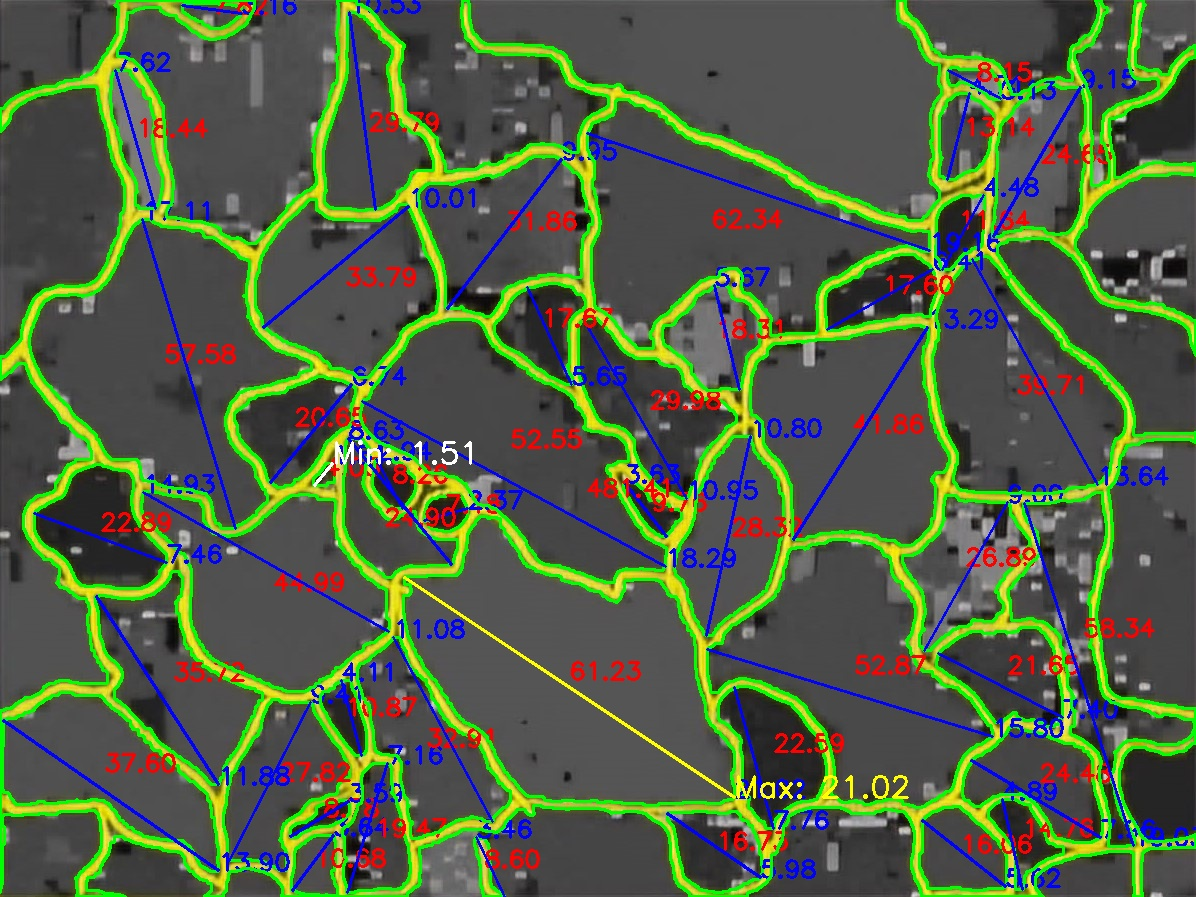
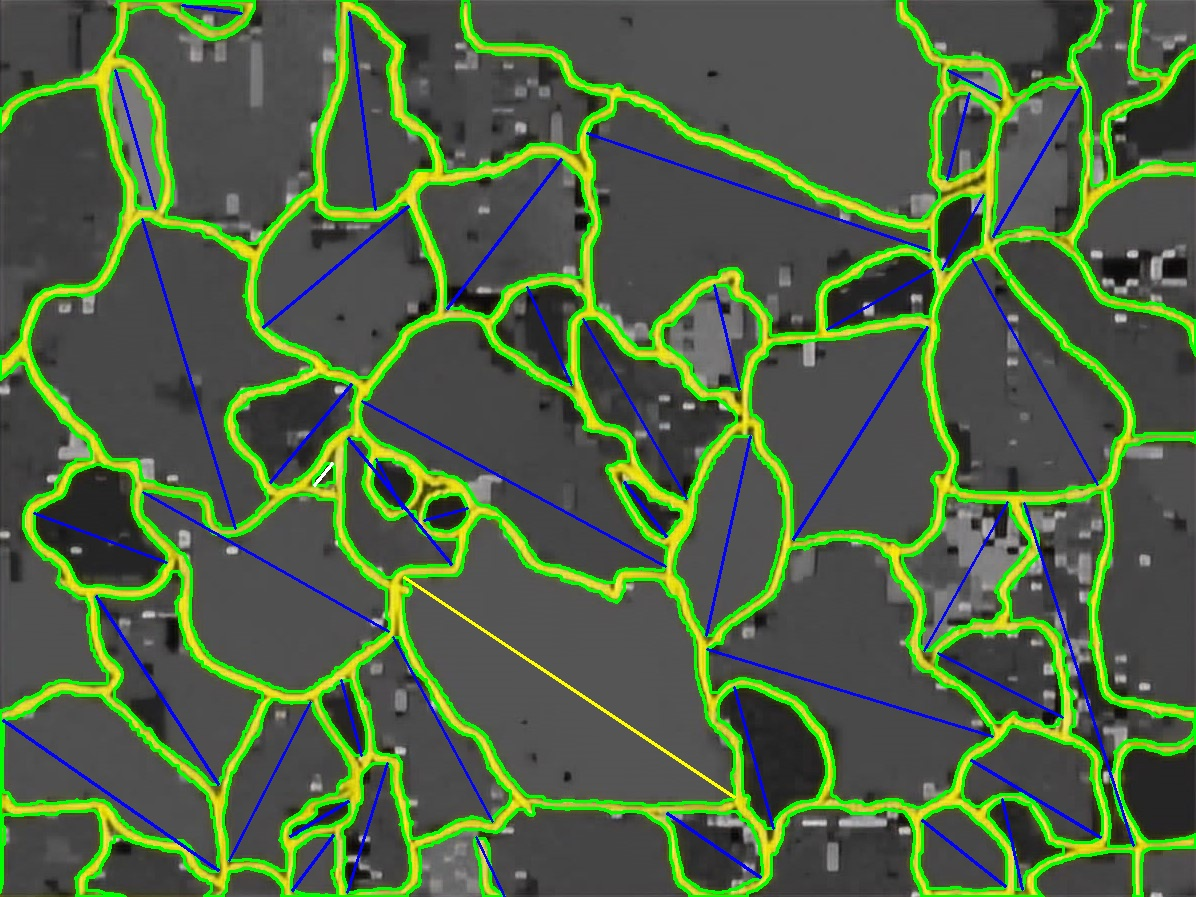
I added new things

diff --git a/image detection/grain_size/grain_size.py b/image detection/grain_size/grain_size.py
@@ -1,3 +1,112 @@
+# import cv2
+# import numpy as np
+# import csv
+
+# def find_longest_line(contour):
+#     max_length = 0
+#     max_line = None
+#     for i in range(len(contour)):
+#         for j in range(i+1, len(contour)):
+#             length = np.linalg.norm(contour[i] - contour[j])
+#             if length > max_length:
+#                 max_length = length
+#                 max_line = (contour[i], contour[j])
+#     return max_line, max_length
+
+# def pixels_to_microns(pixels, image_width_mm, image_height_mm, img_width_px, img_height_px):
+#     width_ratio = image_width_mm / img_width_px
+#     height_ratio = image_height_mm / img_height_px
+#     return pixels * max(width_ratio, height_ratio)
+
+# def find_grain_sizes(image_path, line_color_lower, line_color_upper, grain_size_limit, longest_line_limit, image_width_mm, image_height_mm):
+
+#     img = cv2.imread(image_path)
+
+#     hsv = cv2.cvtColor(img, cv2.COLOR_BGR2HSV)
+
+#     mask = cv2.inRange(hsv, line_color_lower, line_color_upper)
+
+#     kernel = np.ones((7, 7), np.uint8)  
+#     mask = cv2.morphologyEx(mask, cv2.MORPH_CLOSE, kernel)
+
+#     contours, _ = cv2.findContours(mask, cv2.RETR_LIST, cv2.CHAIN_APPROX_SIMPLE)
+
+#     grain_sizes = []
+#     line_lengths = []  
+#     grain_data = []  
+
+#     for idx, contour in enumerate(contours):
+#         grain_size_pixels = cv2.arcLength(contour, True)
+#         grain_size_microns = pixels_to_microns(grain_size_pixels, image_width_mm, image_height_mm, img.shape[1], img.shape[0])
+
+#         if grain_size_microns > grain_size_limit:
+#             continue
+
+#         cv2.drawContours(img, [contour], -1, (0, 255, 0), 2)
+
+#         M = cv2.moments(contour)
+#         if M["m00"] != 0:
+#             cX = int(M["m10"] / M["m00"])
+#             cY = int(M["m01"] / M["m00"])
+#             cv2.putText(img, f"{grain_size_microns:.2f}", (cX, cY), cv2.FONT_HERSHEY_SIMPLEX, 0.8, (0, 0, 255), 2)
+
+#         longest_line, line_length = find_longest_line(contour)
+#         if longest_line is not None and line_length <= longest_line_limit:
+#             line_length_microns = pixels_to_microns(line_length, image_width_mm, image_height_mm, img.shape[1], img.shape[0])
+#             line_lengths.append(line_length_microns)
+#             cv2.line(img, tuple(longest_line[0][0]), tuple(longest_line[1][0]), (255, 0, 0), 2)
+#             cv2.putText(img, f"{line_length_microns:.2f}", tuple(longest_line[0][0]), cv2.FONT_HERSHEY_SIMPLEX, 0.8, (255, 0, 0), 2)
+
+#         grain_sizes.append(grain_size_microns)
+#         grain_data.append([idx + 1, grain_size_microns, line_length_microns])
+#         print(f"Grain Size: {grain_size_microns:.2f} mikron")  # Print grain size
+#         print(f"Longest Line Length: {line_length_microns:.2f} mikron")  # Print longest line length
+
+ 
+#     if line_lengths:
+#         max_line_length = max(line_lengths)
+#         min_line_length = min(line_lengths)
+#         max_length_pos = line_lengths.index(max_line_length)
+#         min_length_pos = line_lengths.index(min_line_length)
+#         max_contour = contours[max_length_pos]
+#         min_contour = contours[min_length_pos]
+
+#         max_line, _ = find_longest_line(max_contour)
+#         if max_line is not None:
+#             cv2.line(img, tuple(max_line[0][0]), tuple(max_line[1][0]), (0, 255, 255), 2)
+#             cv2.putText(img, f"Max: {max_line_length:.2f}", tuple(max_line[0][0]), cv2.FONT_HERSHEY_SIMPLEX, 1, (0, 255, 255), 2)
+
+#         min_line, _ = find_longest_line(min_contour)
+#         if min_line is not None:
+#             cv2.line(img, tuple(min_line[0][0]), tuple(min_line[1][0]), (255, 255, 255), 2)  # Beyaz renkte çiz
+#             cv2.putText(img, f"Min: {min_line_length:.2f}", tuple(min_line[0][0]), cv2.FONT_HERSHEY_SIMPLEX, 1, (255, 255, 255), 2)  # Beyaz renkte yazı
+
+#         print(f"Maximum Length: {max_line_length:.2f}")
+#         print(f"Minimum Length: {min_line_length:.2f}")
+#     else:
+#         print("There is no length.")
+
+#     with open('grain_size/grain_sizes.csv', 'w', newline='') as file:
+#         writer = csv.writer(file)
+#         writer.writerow(["Grain Size Number", "Grain Size (microns)", "Longest Line Length (microns)"])
+#         writer.writerows(grain_data)
+
+#     return img
+
+# image_path = "first/104-gs.jpeg"  # Path to your EBSD image
+# line_color_lower = (20, 100, 100)  # Lower HSV threshold for yellow color
+# line_color_upper = (30, 255, 255)  # Upper HSV threshold for yellow color
+# grain_size_limit = 2000  # Grain size limit in microns
+# longest_line_limit = 600  # Longest line length limit in pixels
+# image_width_mm = 63.40  # Width of the image in millimeters
+# image_height_mm = 47.53  # Height of the image in millimeters
+
+# result_image = find_grain_sizes(image_path, line_color_lower, line_color_upper, grain_size_limit, longest_line_limit, image_width_mm, image_height_mm)
+# cv2.imwrite("grain_size/result_with_grain_sizes.jpg", result_image)
+
+# print("Result image saved as result_with_grain_sizes.jpg")
+# print("Grain size data saved as grain_sizes.csv")
+
 import cv2
 import numpy as np
 import csv
@@ -48,18 +157,17 @@ def find_grain_sizes(image_path, line_color_lower, line_color_upper, grain_size_
         if M["m00"] != 0:
             cX = int(M["m10"] / M["m00"])
             cY = int(M["m01"] / M["m00"])
-            cv2.putText(img, f"{grain_size_microns:.2f}", (cX, cY), cv2.FONT_HERSHEY_SIMPLEX, 0.8, (0, 0, 255), 2)
 
         longest_line, line_length = find_longest_line(contour)
         if longest_line is not None and line_length <= longest_line_limit:
             line_length_microns = pixels_to_microns(line_length, image_width_mm, image_height_mm, img.shape[1], img.shape[0])
             line_lengths.append(line_length_microns)
             cv2.line(img, tuple(longest_line[0][0]), tuple(longest_line[1][0]), (255, 0, 0), 2)
-            cv2.putText(img, f"{line_length_microns:.2f}", tuple(longest_line[0][0]), cv2.FONT_HERSHEY_SIMPLEX, 0.8, (255, 0, 0), 2)
+            cv2.putText(img, f"{line_length_microns:.2f}", tuple(longest_line[0][0]), cv2.FONT_HERSHEY_SIMPLEX, 1.05, (255, 0, 0), 3)
 
         grain_sizes.append(grain_size_microns)
         grain_data.append([idx + 1, grain_size_microns, line_length_microns])
-        print(f"Grain Size: {grain_size_microns:.2f} mikron")  # Print grain size
+        print(f"{grain_size_microns:.2f} mikron")  # Print grain size
         print(f"Longest Line Length: {line_length_microns:.2f} mikron")  # Print longest line length
 
  
@@ -74,12 +182,12 @@ def find_grain_sizes(image_path, line_color_lower, line_color_upper, grain_size_
         max_line, _ = find_longest_line(max_contour)
         if max_line is not None:
             cv2.line(img, tuple(max_line[0][0]), tuple(max_line[1][0]), (0, 255, 255), 2)
-            cv2.putText(img, f"Max: {max_line_length:.2f}", tuple(max_line[0][0]), cv2.FONT_HERSHEY_SIMPLEX, 1, (0, 255, 255), 2)
+            cv2.putText(img, f"Max: {max_line_length:.2f}", tuple(max_line[0][0]), cv2.FONT_HERSHEY_SIMPLEX, 1.05, (0, 255, 255), 3)
 
         min_line, _ = find_longest_line(min_contour)
         if min_line is not None:
             cv2.line(img, tuple(min_line[0][0]), tuple(min_line[1][0]), (255, 255, 255), 2)  # Beyaz renkte çiz
-            cv2.putText(img, f"Min: {min_line_length:.2f}", tuple(min_line[0][0]), cv2.FONT_HERSHEY_SIMPLEX, 1, (255, 255, 255), 2)  # Beyaz renkte yazı
+            cv2.putText(img, f"Min: {min_line_length:.2f}", tuple(min_line[0][0]), cv2.FONT_HERSHEY_SIMPLEX, 1.05, (255, 255, 255), 3)  # Beyaz renkte yazı
 
         print(f"Maximum Length: {max_line_length:.2f}")
         print(f"Minimum Length: {min_line_length:.2f}")
@@ -102,7 +210,7 @@ image_width_mm = 63.40  # Width of the image in millimeters
 image_height_mm = 47.53  # Height of the image in millimeters
 
 result_image = find_grain_sizes(image_path, line_color_lower, line_color_upper, grain_size_limit, longest_line_limit, image_width_mm, image_height_mm)
-cv2.imwrite("grain_size/result_with_grain_sizes.jpg", result_image)
+cv2.imwrite("grain_size/result_with_grain_sizes1.jpg", result_image)
 
-print("Result image saved as result_with_grain_sizes.jpg")
+print("Result image saved as result_with_grain_sizes1.jpg")
 print("Grain size data saved as grain_sizes.csv")

diff --git a/README.md b/README.md
@@ -1,28 +1,45 @@
 <div align="center">
 
+## **Seymanur Selver MSc Thesis Repository**
+## `A COMPARATIVE STUDY ON POLY-SI THIN FILM SOLAR CELLS CHARACTERIZATION VALIDATED BY MACHINE LEARNING` </br>
 
+</div>
 
-## **Seymanur Selver MSc Thesis Respository**
-## `Characterization of Poly-Si Thin Film Solar Cells Deposited with E-Beam Evaporation Using Machine Learning` </br>
-
-
-
-# Image detection
+# Image Detection
 ## 🌐 Grain Size
-PyCaret is an open-source, low-code machine learning library in Python that automates machine learning workflows. It is an end-to-end machine learning and model management tool that speeds up the experiment cycle exponentially and makes you more productive.
-## 🌐 Stacking Fault
-In comparison with the other open-source machine learning libraries, PyCaret is an alternate low-code library that can be used to replace hundreds of lines of code with few lines only. This makes experiments exponentially fast and efficient. PyCaret is essentially a Python wrapper around several machine learning libraries and frameworks such as scikit-learn, XGBoost, LightGBM, CatBoost, Optuna, Hyperopt, Ray, and few more.
+In this section, you will find OpenCV-based image processing methods used to analyze grain sizes detected in Poly-Si thin film solar cells. OpenCV is an open-source library used for computer vision and image processing.
 
-The design and simplicity of PyCaret are inspired by the emerging role of citizen data scientists, a term first used by Gartner. Citizen Data Scientists are power users who can perform both simple and moderately sophisticated analytical tasks that would previously have required more technical expertise. PyCaret was inspired by the caret library in R programming language.
+## 🌐 Stacking Fault
+This section presents methods used with OpenCV to detect defects in images. Evaluating stacking faults with OpenCV enables assessment of solar cell quality.
 
 # Machine Learning
 
 ## 🌐 Classification
-PyCaret is tested and supported on 64-bit systems with:
-- Python 3.9, 3.10 and 3.11
-- Ubuntu 16.04 or later
-- Windows 7 or later
+This section provides insights into creating and evaluating classification models using PyCaret. PyCaret has been tested on 64-bit systems and is supported on the following systems:
+- Python 3.9, 3.10, and 3.11
+- Ubuntu 16.04 or above
+- Windows 7 or above
 
+PyCaret's default installation does not automatically install all optional dependencies. Depending on your use case, you may need to handle one or more additional dependencies.
 
-PyCaret's default installation will not install all the optional dependencies automatically. Depending on the use case, you may be interested in one or more extras:
+## Installation
+To clone and run this repository locally, you'll need [Git](https://git-scm.com/) and [Python](https://www.python.org/) installed on your computer. From the command line:
 
+```bash
+# Clone this repository
+$ git clone https://github.com/symnrslvr/study-repo.git
+
+# Navigate into the repository
+$ cd study-repo
+
+# Create a virtual environment (optional but recommended)
+$ python -m venv venv
+
+# Activate the virtual environment
+# On Windows
+$ .\venv\Scripts\activate
+# On macOS/Linux
+$ source venv/bin/activate
+
+# Install dependencies
+$ pip install -r requirements.txt
